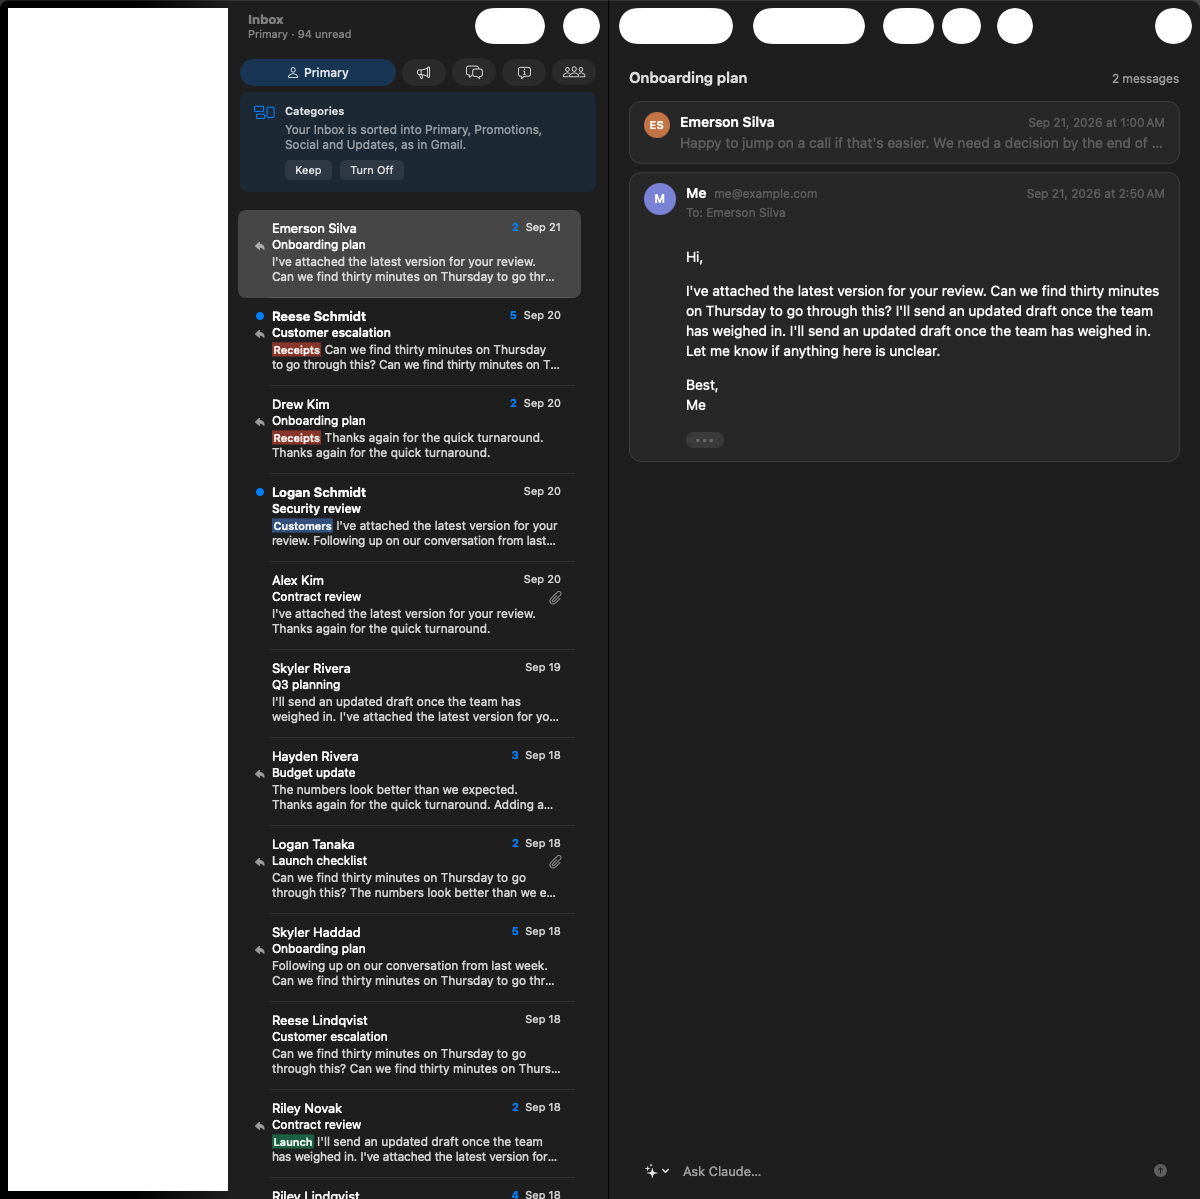
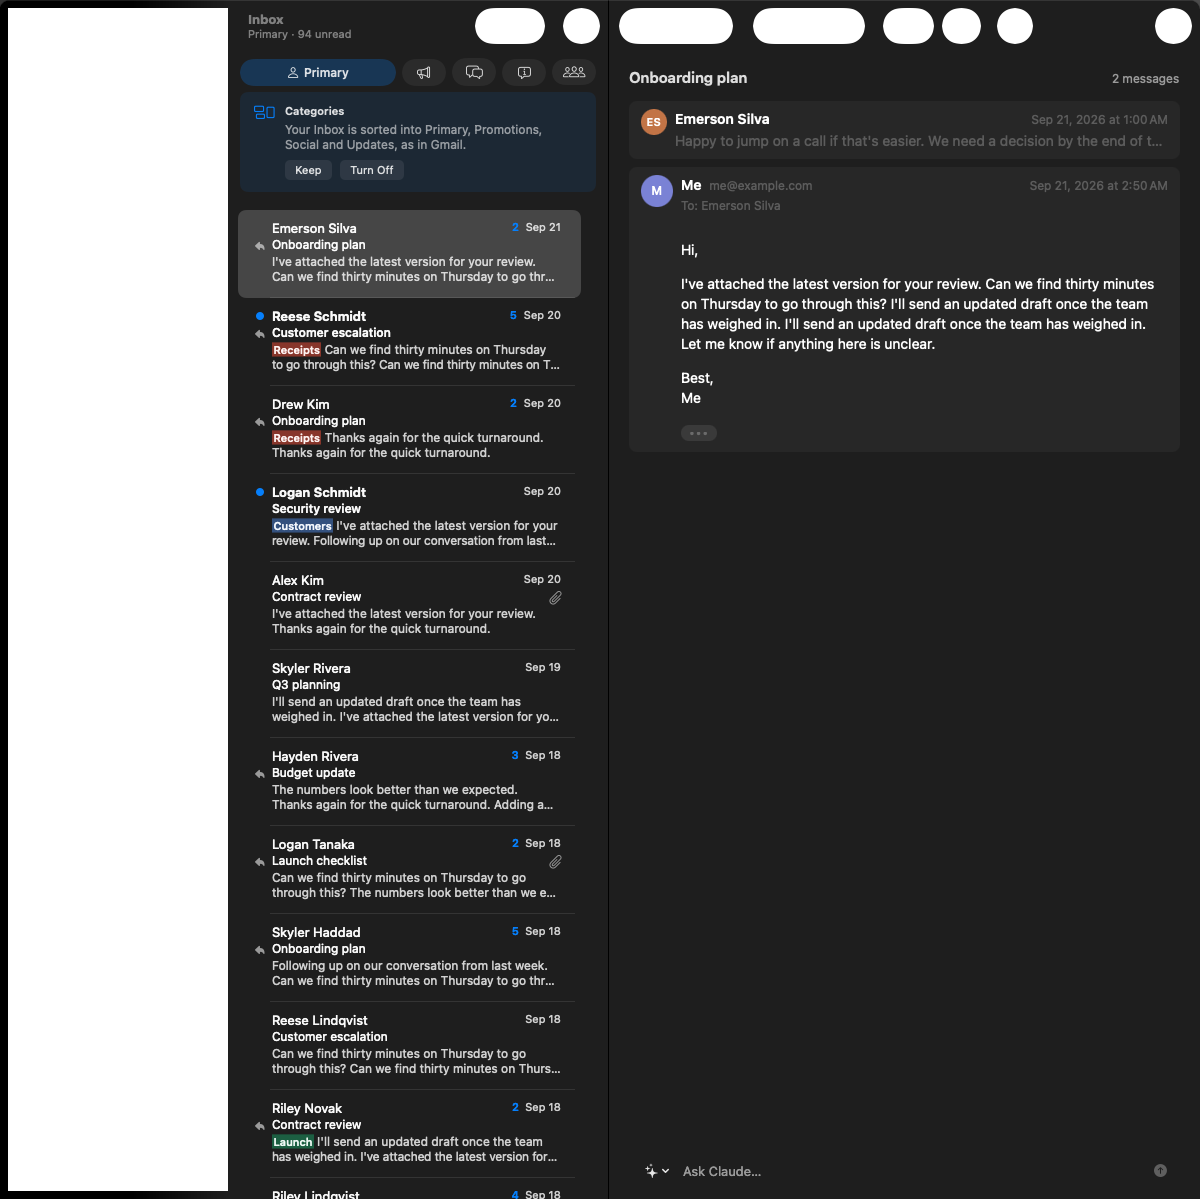
Reader and quote CSS on the spacing scale (oagc-068.5)
The reader's message cards used 10/14 px padding, a 10 px gap, a 12 px
radius and an outline; the CSS now takes its spacing and radii from
Space and Radius (card radius 8, padding 8/12, gap 8, no outline, since
only attention cards have one). The composer's quote follows. Design
lint now flags px in CSS padding, margin, gap or border-radius that are
not on the scale. Reader snapshots refreshed.

Changed region(s): [[0.5242, 0.0926, 0.9867, 0.3394], [0.8633, 0.1543, 0.9558, 0.1852]]

diff --git a/macos/OpenAGC/Features/MessageView/EmailDocument.swift b/macos/OpenAGC/Features/MessageView/EmailDocument.swift
@@ -123,13 +123,20 @@ enum EmailDocument {
         dateFormatter.string(from: date)
     }
 
+    /// A design token as CSS (docs/design-system.md): the reader keeps to
+    /// the same spacing and radius scale as the app.
+    private static func px(_ value: CGFloat) -> String { "\(Int(value))px" }
+
+    /// Message cards: `Radius.card`, padded `Space.m`/`Space.l`; no outline
+    /// (only attention cards have one). The body lines up past the avatar
+    /// (32) and the gap (`Space.m`).
     private static let stylesheet = """
-    :root { color-scheme: light dark; --card: color-mix(in srgb, CanvasText 4%, Canvas); \
-    --line: color-mix(in srgb, CanvasText 10%, transparent); }
+    :root { color-scheme: light dark; --card: color-mix(in srgb, CanvasText 4%, Canvas); }
     html, body { margin: 0; background: Canvas; color: CanvasText; overflow-x: hidden; }
     body { font: 14px/1.45 -apple-system, system-ui, sans-serif; padding: 8px 20px 24px; overflow-wrap: anywhere; }
-    .msg { background: var(--card); border: 1px solid var(--line); border-radius: 12px; padding: 10px 14px; margin: 0 0 8px; }
-    summary { list-style: none; cursor: default; display: flex; gap: 10px; align-items: flex-start; }
+    .msg { background: var(--card); border-radius: \(px(Radius.card)); padding: \(px(Space.m)) \(px(Space.l)); \
+    margin: 0 0 \(px(Space.m)); }
+    summary { list-style: none; cursor: default; display: flex; gap: \(px(Space.m)); align-items: flex-start; }
     summary::-webkit-details-marker { display: none; }
     .avatar { flex: none; width: 32px; height: 32px; border-radius: 50%; color: #fff; font: 600 12px/32px -apple-system, system-ui; \
     text-align: center; letter-spacing: 0.3px; }
@@ -142,26 +149,28 @@ enum EmailDocument {
     .addr { white-space: nowrap; overflow: hidden; text-overflow: ellipsis; }
     details:not([open]) .addr, details:not([open]) .to { display: none; }
     .date { margin-left: auto; font-size: 12px; white-space: nowrap; }
-    .to { margin-top: 1px; white-space: nowrap; overflow: hidden; text-overflow: ellipsis; }
-    .snippet { margin-top: 1px; white-space: nowrap; overflow: hidden; text-overflow: ellipsis; }
+    .to { margin-top: \(px(Space.hair)); white-space: nowrap; overflow: hidden; text-overflow: ellipsis; }
+    .snippet { margin-top: \(px(Space.hair)); white-space: nowrap; overflow: hidden; text-overflow: ellipsis; }
     details[open] .snippet { display: none; }
-    .body { margin: 12px 0 2px 42px; overflow-x: auto; }
+    .body { margin: \(px(Space.l)) 0 \(px(Space.hair)) \(px(32 + Space.m)); overflow-x: auto; }
     .body img { max-width: 100%; height: auto; }
     .body table { max-width: 100%; }
     .body pre { white-space: pre-wrap; }
-    .body.paper { background: #ffffff; color: #111111; color-scheme: light; border-radius: 8px; padding: 12px; }
+    .body.paper { background: #ffffff; color: #111111; color-scheme: light; border-radius: \(px(Radius.card)); \
+    padding: \(px(Space.l)); }
     .body.pending { color: GrayText; font-style: italic; }
     .msg.draft { background: transparent; border: 1px dashed color-mix(in srgb, #FF9500 70%, transparent); }
     .badge { flex: none; font: 600 11px/16px -apple-system, system-ui; color: #C75C00; padding: 0 6px; border-radius: 4px; \
     background: color-mix(in srgb, #FF9500 18%, transparent); }
     @media (prefers-color-scheme: dark) { .badge { color: #FFB45C; } }
-    blockquote { margin: 8px 0; padding-left: 10px; border-left: 2px solid color-mix(in srgb, CanvasText 25%, transparent); color: GrayText; }
+    blockquote { margin: \(px(Space.m)) 0; padding-left: \(px(Space.m)); border-left: 2px solid color-mix(in srgb, CanvasText 25%, transparent); color: GrayText; }
     a { color: LinkText; }
-    .body details.openagc-quote { margin: 10px 0 0; }
-    .body details.openagc-quote > summary { display: inline-block; padding: 0 9px; border-radius: 8px; cursor: pointer; \
+    .body details.openagc-quote { margin: \(px(Space.l)) 0 0; }
+    .body details.openagc-quote > summary { display: inline-block; padding: 0 \(px(Space.m)); \
+    border-radius: \(px(Radius.card)); cursor: pointer; \
     font: 700 12px/16px -apple-system, system-ui; letter-spacing: 1px; color: GrayText; \
     background: color-mix(in srgb, CanvasText 9%, transparent); }
     .body details.openagc-quote > summary:hover { background: color-mix(in srgb, CanvasText 16%, transparent); }
-    .body details.openagc-quote[open] > summary { margin-bottom: 8px; }
+    .body details.openagc-quote[open] > summary { margin-bottom: \(px(Space.m)); }
     """
 }

diff --git a/macos/OpenAGC/Features/Composer/ComposerView.swift b/macos/OpenAGC/Features/Composer/ComposerView.swift
@@ -455,7 +455,7 @@ struct ComposerView: View {
         <meta name="color-scheme" content="light dark">
         <style>:root{color-scheme:light dark}
         body{font:13px -apple-system;margin:8px 16px;background:Canvas;color:GrayText}
-        blockquote{margin:0 0 0 4px;padding-left:10px;border-left:2px solid color-mix(in srgb, CanvasText 25%, transparent)}
+        blockquote{margin:0 0 0 4px;padding-left:8px;border-left:2px solid color-mix(in srgb, CanvasText 25%, transparent)}
         a{color:LinkText}</style>
         </head><body>\(html)</body></html>
         """

diff --git a/docs/design-inventory.md b/docs/design-inventory.md
@@ -13,7 +13,7 @@ it), **No** (not mentioned). Paths are relative to `macos/OpenAGC/`.
 
 | Pattern | Where | Covered? | Notes |
 | --- | --- | --- | --- |
-| Reader message cards (HTML) | `Features/MessageView/EmailDocument.swift:28-60`, CSS `:140-170` | No | One `<details>` card per message. The CSS uses its own numbers: card radius 12px (`Radius.panel`, but cards are `Radius.card` = 8), padding `10px 14px`, gap `10px` and `margin 0 0 8px` (10 and 14 are off the scale), body inset 42px, body font 14px/1.45. Card fill is `CanvasText 4%` with a 10 % outline, but the design system says only attention cards have outlines. Nothing ties the CSS to `Space`/`Radius`. |
+| Reader message cards (HTML) | `Features/MessageView/EmailDocument.swift` | Yes | Since oagc-068.5 the CSS takes its spacing and radii from `Space`/`Radius` (`px(_:)`): card `Radius.card`, padding `Space.m`/`Space.l`, gap `Space.m`, no outline (drafts keep their dashed one as the draft marker). `scripts/design-lint.sh` checks the CSS's px values. |
 | Reader card: collapsed vs expanded | `EmailDocument.swift:101-103`, CSS `:150,157,161` | No | Latest and unread messages open. Collapsed cards shrink the avatar (32 to 26px), hide address and To, and show a one-line snippet. Clicking toggles (native `<details>`); there is no keyboard shortcut to expand or collapse all. |
 | Reader "paper" body | `EmailDocument.swift:51,105-111`, CSS `:166` | No | In dark mode, mail that sets its own colours is drawn on white paper (`#fff`/`#111`, radius 8, padding 12). Worth a rule: "never recolour sender HTML; give it paper". |
 | Reader header (subject, message count, Edit Draft) | `Features/MessageView/ThreadReaderView.swift:31-53` | Partly | `TypeRole.title` is used for the subject, as documented. The count uses a raw `.font(.callout)` (`:46`) and not `TypeRole.meta`. It is not a `.columnHeader`: the header does not scroll, because the web view scrolls inside it. That exception is not written down. |

diff --git a/docs/design-system.md b/docs/design-system.md
@@ -242,7 +242,9 @@ second line, and the due day in the date's slot at the trailing edge.
 ### Reader
 
 The reader is HTML (`EmailDocument`), so it cannot use the tokens
-directly; its CSS keeps to the same scale.
+directly; its CSS keeps to the same scale: values come from `Space` and
+`Radius` through `px(_:)`, and design-lint flags any other px in padding,
+margin, gap or border-radius.
 
 - One card per message (`<details>`): an initials avatar (32 pt, 26 when
   collapsed), the sender, the date in the reader's style, and the body.
